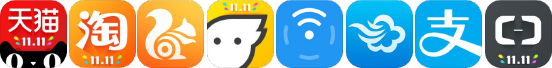
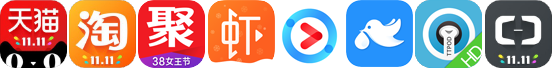
更新列表

diff --git a/build/index.html b/build/index.html
@@ -193,7 +193,7 @@
[1 lines of base64/hex data omitted]
                             </div>
                             <h1>构建</h1>
-                            <p>支持aar级联依赖，awo单模块独立调试，独立构建工具辅助。</p>
+                            <p>支持aar provided级联依赖，awo单模块独立调试，独立构建工具辅助。</p>
                         </div>
                     </div>
                 </div>
@@ -242,7 +242,7 @@
 
         <div class="container">
             <div class="row">
-                <h1>产品介绍</h1>
+                <h1>谁在使用Atlas</h1>
             </div>
             <div class="row">
                 <div class="col-md-3 col-xs-6">
@@ -272,8 +272,8 @@
                 <div class="col-md-3 col-xs-6">
                     <div class="row item-product">
                         <div class="item-product-image">
-                            <div class="icon-image icon-image-uc"></div>
-                            <p class="name">UC浏览器</p>
+                            <div class="icon-image icon-image-ju"></div>
+                            <p class="name">聚划算</p>
                         </div>
                         <div class="item-product-text">
                             <h2></h2>
@@ -284,8 +284,8 @@
                 <div class="col-md-3 col-xs-6">
                     <div class="row item-product">
                         <div class="item-product-image">
-                            <div class="icon-image icon-image-pig"></div>
-                            <p class="name">飞猪</p>
+                            <div class="icon-image icon-image-xia"></div>
+                            <p class="name">虾米音乐</p>
                         </div>
                         <div class="item-product-text">
                             <h2></h2>
@@ -300,8 +300,34 @@
                 <div class="col-md-3 col-xs-6">
                     <div class="row item-product">
                         <div class="item-product-image">
-                            <div class="icon-image icon-image-alipay"></div>
-                            <p class="name">支付宝</p>
+                            <div class="icon-image icon-image-cai"></div>
+                            <p class="name">菜鸟</p>
+                        </div>
+                        <div class="item-product-text">
+                            <h2></h2>
+                            <p></p>
+                        </div>
+                    </div>
+                </div>
+
+                <div class="col-md-3 col-xs-6">
+                    <div class="row item-product">
+                        <div class="item-product-image">
+                            <div class="icon-image icon-image-tian"></div>
+                            <p class="name">天天动听</p>
+                        </div>
+                        <div class="item-product-text">
+                            <h2></h2>
+                            <p></p>
+                        </div>
+                    </div>
+                </div>
+
+                <div class="col-md-3 col-xs-6">
+                    <div class="row item-product">
+                        <div class="item-product-image">
+                            <div class="icon-image icon-image-youku"></div>
+                            <p class="name">优酷</p>
                         </div>
                         <div class="item-product-text">
                             <h2></h2>

diff --git a/src/index.html b/src/index.html
@@ -193,7 +193,7 @@
                                 <img src="img/icon-more-p1.svg" alt=""/>
                             </div>
                             <h1>构建</h1>
-                            <p>支持aar级联依赖，awo单模块独立调试，独立构建工具辅助。</p>
+                            <p>支持aar provided级联依赖，awo单模块独立调试，独立构建工具辅助。</p>
                         </div>
                     </div>
                 </div>
@@ -272,8 +272,8 @@
                 <div class="col-md-3 col-xs-6">
                     <div class="row item-product">
                         <div class="item-product-image">
-                            <div class="icon-image icon-image-uc"></div>
-                            <p class="name">UC浏览器</p>
+                            <div class="icon-image icon-image-ju"></div>
+                            <p class="name">聚划算</p>
                         </div>
                         <div class="item-product-text">
                             <h2></h2>
@@ -284,8 +284,8 @@
                 <div class="col-md-3 col-xs-6">
                     <div class="row item-product">
                         <div class="item-product-image">
-                            <div class="icon-image icon-image-pig"></div>
-                            <p class="name">飞猪</p>
+                            <div class="icon-image icon-image-xia"></div>
+                            <p class="name">虾米音乐</p>
                         </div>
                         <div class="item-product-text">
                             <h2></h2>
@@ -300,8 +300,34 @@
                 <div class="col-md-3 col-xs-6">
                     <div class="row item-product">
                         <div class="item-product-image">
-                            <div class="icon-image icon-image-alipay"></div>
-                            <p class="name">支付宝</p>
+                            <div class="icon-image icon-image-cai"></div>
+                            <p class="name">菜鸟</p>
+                        </div>
+                        <div class="item-product-text">
+                            <h2></h2>
+                            <p></p>
+                        </div>
+                    </div>
+                </div>
+
+                <div class="col-md-3 col-xs-6">
+                    <div class="row item-product">
+                        <div class="item-product-image">
+                            <div class="icon-image icon-image-tian"></div>
+                            <p class="name">天天动听</p>
+                        </div>
+                        <div class="item-product-text">
+                            <h2></h2>
+                            <p></p>
+                        </div>
+                    </div>
+                </div>
+
+                <div class="col-md-3 col-xs-6">
+                    <div class="row item-product">
+                        <div class="item-product-image">
+                            <div class="icon-image icon-image-youku"></div>
+                            <p class="name">优酷</p>
                         </div>
                         <div class="item-product-text">
                             <h2></h2>

diff --git a/build/app.css b/build/app.css
@@ -6027,8 +6027,8 @@ button.close {
   color: #fff;
   font-weight: 100;
   font-size: 1.8rem;
-  line-height: 3rem;
-  margin-top: 4rem;
+  line-height: 1.8rem;
+  margin-top: 2rem;
 }
 @media (max-width: 768px) {
   .first-screen .navbar-collapse {
@@ -6190,19 +6190,19 @@ button.close {
 .fourth-screen .item-product .item-product-image .icon-image-taobao {
   background-position: -69px 0;
 }
-.fourth-screen .item-product .item-product-image .icon-image-uc {
+.fourth-screen .item-product .item-product-image .icon-image-ju {
   background-position: -136px 0;
 }
-.fourth-screen .item-product .item-product-image .icon-image-pig {
+.fourth-screen .item-product .item-product-image .icon-image-xia {
   background-position: -206px 0;
 }
-.fourth-screen .item-product .item-product-image .icon-image-1 {
-  background-position: -274px 0;
+.fourth-screen .item-product .item-product-image .icon-image-youku {
+  background-position: -275px 0;
 }
-.fourth-screen .item-product .item-product-image .icon-image-2 {
+.fourth-screen .item-product .item-product-image .icon-image-cai {
   background-position: -344px 0;
 }
-.fourth-screen .item-product .item-product-image .icon-image-alipay {
+.fourth-screen .item-product .item-product-image .icon-image-tian {
   background-position: -415px 0;
 }
 .fourth-screen .item-product .item-product-image .icon-image-aliyun {

diff --git a/src/css/fourth-screen.less b/src/css/fourth-screen.less
@@ -33,7 +33,7 @@
         left: 50%;
         margin-top: -25%;
         margin-left: -25%;
-        background: transparent url("../img/icon-product-list.png");
+        background: transparent url("../img/icon-product-list.png?ver=20170313");
       }
 
       .icon-image-tmall {
@@ -42,20 +42,21 @@
       .icon-image-taobao {
         background-position: -69px 0;
       }
-      .icon-image-uc {
+      .icon-image-ju {
         background-position: -136px 0;
       }
-      .icon-image-pig {
+      .icon-image-xia {
         background-position: -206px 0;
       }
 
-      .icon-image-1 {
-        background-position: -274px 0;
+      .icon-image-youku {
+        background-position: -275px 0;
       }
-      .icon-image-2 {
+      .icon-image-cai {
         background-position: -344px 0;
       }
-      .icon-image-alipay {
+
+      .icon-image-tian {
         background-position: -415px 0;
       }
       .icon-image-aliyun {
